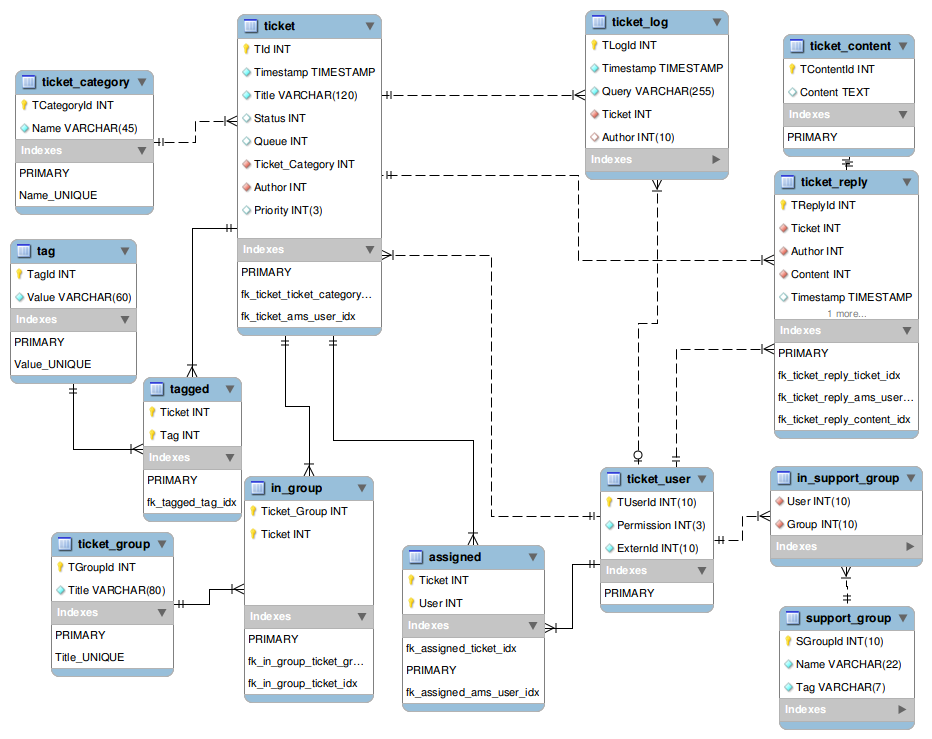
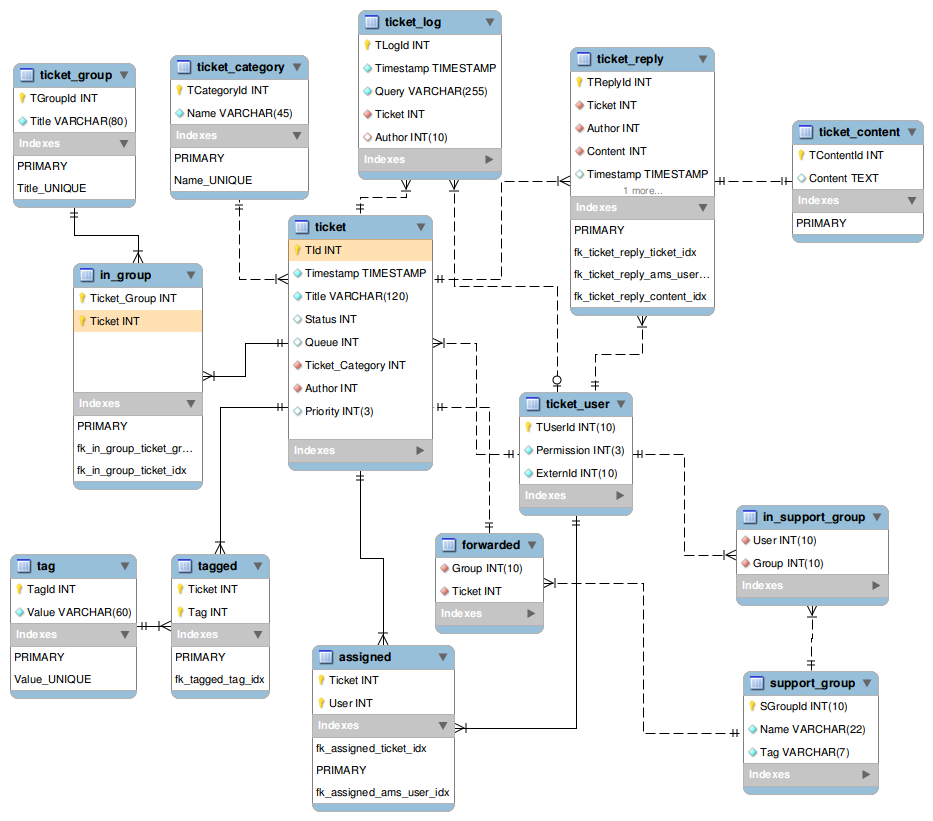
class for forwarding + db  update
--HG--
branch : quitta-gsoc-2013

diff --git a/code/ryzom/tools/server/ryzom_ams/www/html/sql/install.php b/code/ryzom/tools/server/ryzom_ams/www/html/sql/install.php
@@ -274,14 +274,15 @@
             
         INSERT IGNORE INTO `" . $cfg['db']['lib']['name'] ."`.`ticket_category` (`Name`) VALUES ('Hacking'),('Ingame-Bug'),('Website-Bug'),('Installation');
         
-                
+                        
+        
         -- -----------------------------------------------------
         -- Table `" . $cfg['db']['lib']['name'] ."`.`support_group`
         -- -----------------------------------------------------
         DROP TABLE IF EXISTS `" . $cfg['db']['lib']['name'] ."`.`support_group` ;
         
         CREATE  TABLE IF NOT EXISTS `" . $cfg['db']['lib']['name'] ."`.`support_group` (
-          `SGroupId` INT(10) NOT NULL AUTO_INCREMENT ,
+          `SGroupId` INT(10) UNSIGNED NOT NULL AUTO_INCREMENT ,
           `Name` VARCHAR(22) NOT NULL ,
           `Tag` VARCHAR(7) NOT NULL ,
           PRIMARY KEY (`SGroupId`) ,
@@ -297,7 +298,7 @@
         
         CREATE  TABLE IF NOT EXISTS `" . $cfg['db']['lib']['name'] ."`.`in_support_group` (
           `User` INT(10) UNSIGNED NOT NULL ,
-          `Group` INT(10) NOT NULL ,
+          `Group` INT(10) UNSIGNED NOT NULL ,
           INDEX `fk_in_support_group_ticket_user1` (`User` ASC) ,
           INDEX `fk_in_support_group_support_group1` (`Group` ASC) ,
           CONSTRAINT `fk_in_support_group_ticket_user1`
@@ -309,6 +310,28 @@
             FOREIGN KEY (`Group` )
             REFERENCES `" . $cfg['db']['lib']['name'] ."`.`support_group` (`SGroupId` )
             ON DELETE CASCADE
+            ON UPDATE NO ACTION)
+        ENGINE = InnoDB;
+        
+        -- -----------------------------------------------------
+        -- Table `" . $cfg['db']['lib']['name'] ."`.`forwarded`
+        -- -----------------------------------------------------
+        DROP TABLE IF EXISTS `" . $cfg['db']['lib']['name'] ."`.`forwarded` ;
+        
+        CREATE  TABLE IF NOT EXISTS `" . $cfg['db']['lib']['name'] ."`.`forwarded` (
+          `Group` INT(10) UNSIGNED NOT NULL ,
+          `Ticket` INT UNSIGNED NOT NULL ,
+          INDEX `fk_forwarded_support_group1` (`Group` ASC) ,
+          INDEX `fk_forwarded_ticket1` (`Ticket` ASC) ,
+          CONSTRAINT `fk_forwarded_support_group1`
+            FOREIGN KEY (`Group` )
+            REFERENCES `" . $cfg['db']['lib']['name'] ."`.`support_group` (`SGroupId` )
+            ON DELETE CASCADE
+            ON UPDATE NO ACTION,
+          CONSTRAINT `fk_forwarded_ticket1`
+            FOREIGN KEY (`Ticket` )
+            REFERENCES `" . $cfg['db']['lib']['name'] ."`.`ticket` (`TId` )
+            ON DELETE NO ACTION
             ON UPDATE NO ACTION)
         ENGINE = InnoDB;
 
